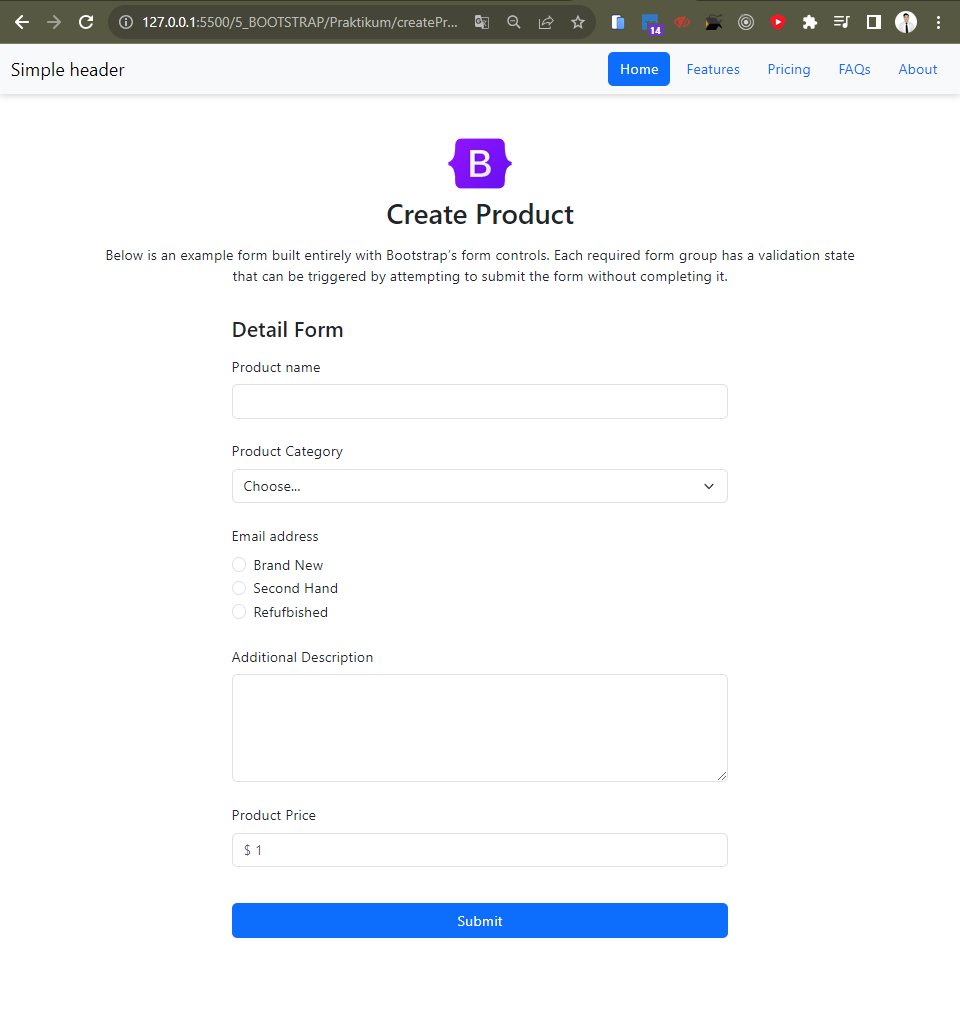
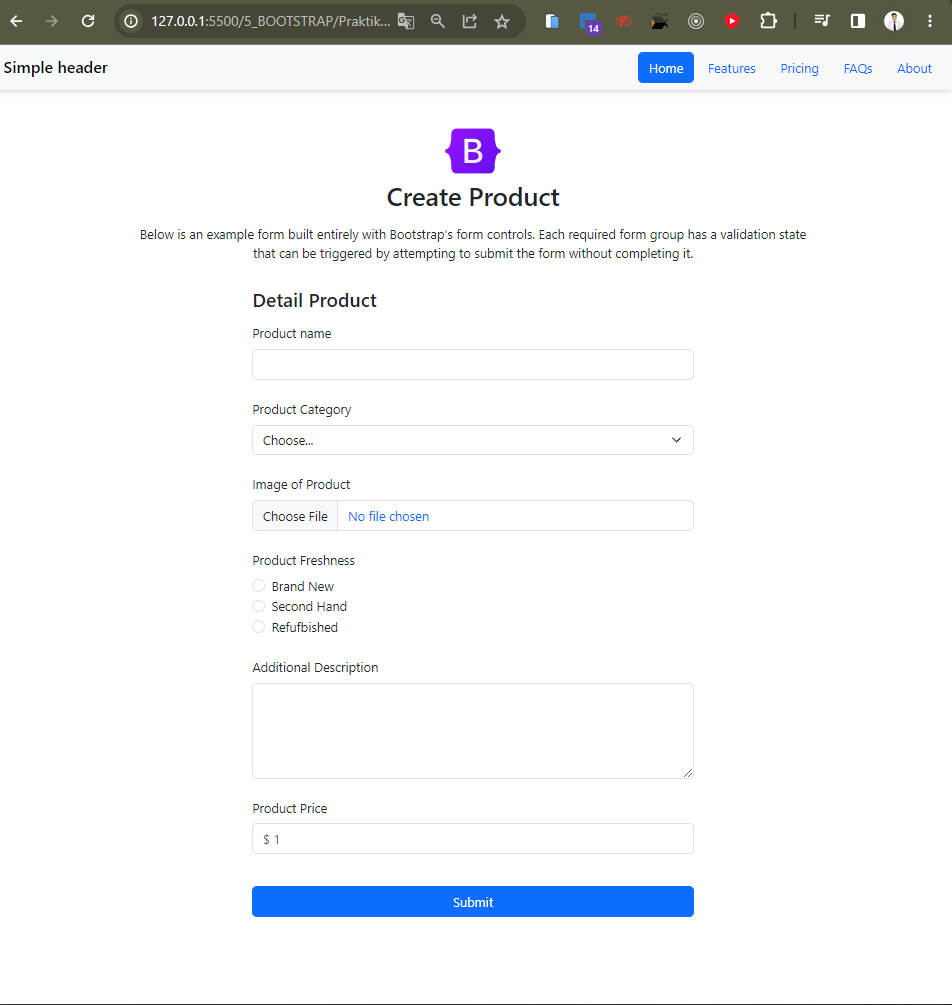
update fix typo dan tambah field input file

diff --git a/5_BOOTSTRAP/Praktikum/createProduct.html b/5_BOOTSTRAP/Praktikum/createProduct.html
@@ -14,7 +14,7 @@
   <body>
     <nav class="navbar bg-body-tertiary">
       <div class="container-fluid">
-        <a class="navbar-brand" href>Simple header</a>
+        <a class="navbar-brand fw-semibold" href>Simple header</a>
         <div>
           <button type="button" class="btn btn-primary">Home</button>
           <button type="button" class="btn btn-light">Features</button>
@@ -34,10 +34,10 @@
           triggered by attempting to submit the form without completing it.</p>
       </div>
       <form action class="pt-3 px-5 w-75 m-auto d-grid gap-2">
-        <h4>Detail Form</h4>
+        <h4>Detail Product</h4>
         <div class="mb-3">
           <label for="name" class="form-label">Product name</label>
-          <input type="email" class="form-control" id="name"
+          <input type="text" class="form-control" id="name"
             aria-describedby="emailHelp">
         </div>
         <div class="mb-3">
@@ -49,7 +49,11 @@
           </select>
         </div>
         <div class="mb-3">
-          <label class="form-label">Email address</label>
+          <label for="category" class="form-label">Image of Product</label>
+          <input class="form-control text-primary" type="file" id="formFile">
+        </div>
+        <div class="mb-3">
+          <label class="form-label">Product Freshness</label>
           <div class="form-check">
             <input class="form-check-input" type="radio" name="flexRadioDefault"
               id="brand_new">
